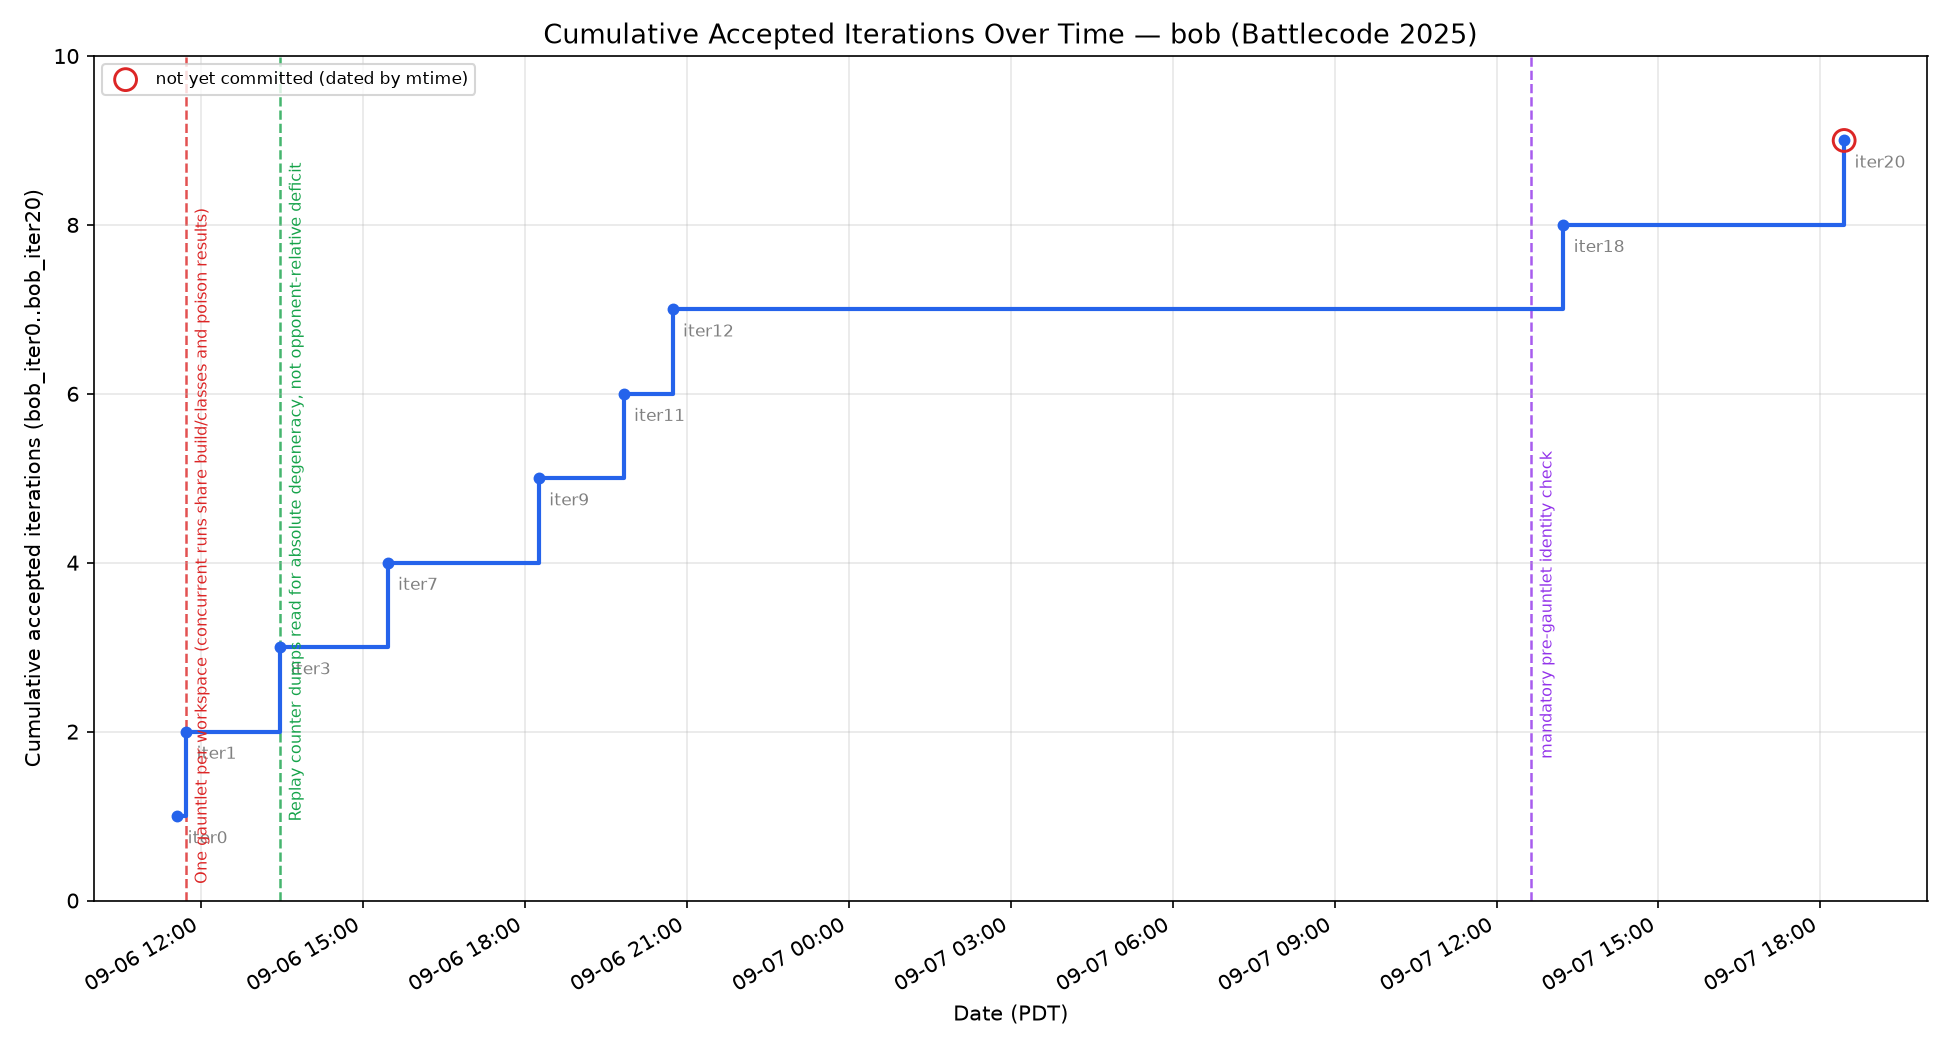
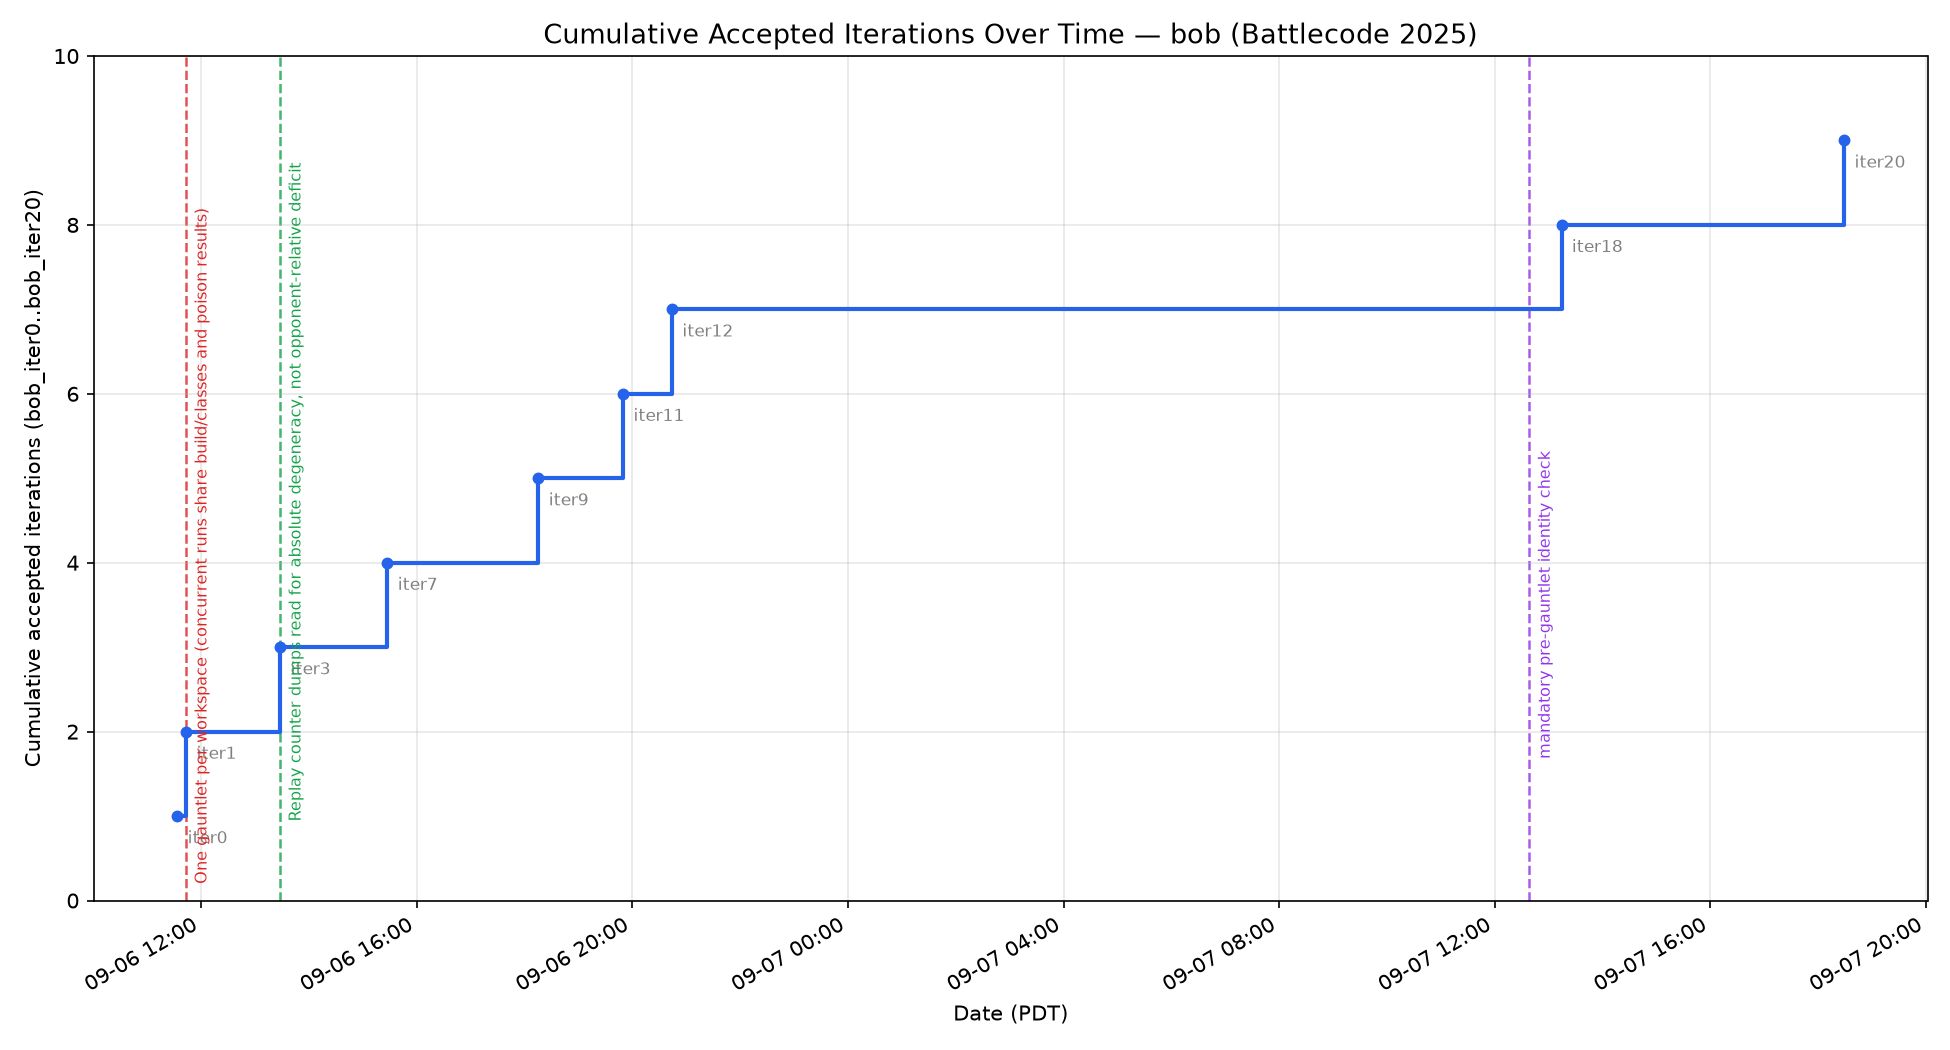
bob: re-derive the iteration 20 roster point; LEARNINGS 27 -- my bug report's symptom was false
track_vs_old_bots.py (fixed in ee4d64a) now resolves the 20260908-005627 roster
run to bob_iter20 instead of bob_iter18+cand. 4 rows replaced.

But the symptom I reported -- "the point stays permanently hollow" -- was wrong.
plot_vs_old_bots.py keys marker fill on the SOURCE column, never on the bot name,
so a roster-run point was solid before the fix and is solid after it;
vs_old_bots.png is byte-identical across the re-derivation. The real cost was
provenance in the CSV, which is the only durable record since gauntlet/ is
git-ignored.

Claude-Session: https://claude.ai/code/session_01AaaGzxRUmH5UDEVerTki8y

diff --git a/agents/bob/LEARNINGS.md b/agents/bob/LEARNINGS.md
@@ -1012,3 +1012,47 @@ than the newest. Superseded rules and stale figures now carry an inline
 grep would hit, applied retroactively (§13 rule 3, §14 rule 3, and the "+6 games / 6 sweeps"
 figure). Preservation and a warning are not in tension; leaving the warning off the matched
 line is what made them look so.
+
+## 27. I reported a real bug with a false symptom — and the symptom I named was untestable (2026-09-08)
+
+I reported the `+cand` roster-label bug this way:
+
+> an accepted candidate's roster point stays permanently "hollow" on the only absolute
+> chart I have — it reads as "may have been rejected" when it was accepted.
+
+The bug was real and the coordinator fixed it. **The symptom I attributed to it was wrong.**
+
+`plot_vs_old_bots.py` reads three fields per CSV row: it groups series by `opponent`,
+positions by `date`/`win_pct`, and decides marker fill from `source` alone —
+
+```
+solid  = [p for p in pts if p[4] != "backfill"]     # p[4] is the SOURCE column
+hollow = [p for p in pts if p[4] == "backfill"]
+```
+
+The `bot` column — the field `+cand` corrupts — **is never read by the plot**. My row's
+source was `roster-run`, so my iteration 20 point was drawn *solid before the fix and solid
+after it*. Confirmed: re-deriving with the fixed tool rewrote 4 rows in the CSV and left
+`vs_old_bots.png` byte-identical.
+
+**Why this is worth an entry rather than an erratum.** Had I "verified" the fix the obvious
+way — look at the chart, see a solid point, declare it fixed — I would have been right by
+accident. The two hypotheses (fixed / not fixed) render **the same image**, so the chart has
+*zero* discriminating power on this question. That is the coordinator's own finding about
+bug #1 in a second instance: a verification performed where the hypotheses do not differ is
+not a verification. Here they do not differ *at all*, which is the degenerate worst case.
+
+The discriminating instrument was the CSV's `bot` column, and it is the one I checked:
+`bob_iter18+cand` → `bob_iter20`. Fixed.
+
+**What the bug actually cost**, stated as what the code computes: not appearance, but
+**provenance** — the durable record of *which snapshot* achieved 35/50 vs `bob_iter11` was
+filed under the wrong name. `gauntlet/` is git-ignored, so that CSV is the only lasting
+record of it; a wrong name there is a wrong answer to "when did this lineage turn around",
+which is exactly the question iterations 12–20 existed to settle.
+
+**The transferable rule, and it generalises past tooling.** When reporting a fault, name the
+observable that *distinguishes* faulty from fixed, and check that it distinguishes before
+naming it. "It looks wrong on the chart" was a symptom I never confirmed the chart could
+show. My own report was the un-run discriminating case — the same failure I have twice now
+caught in someone else's instrument, committed in my own bug report.
